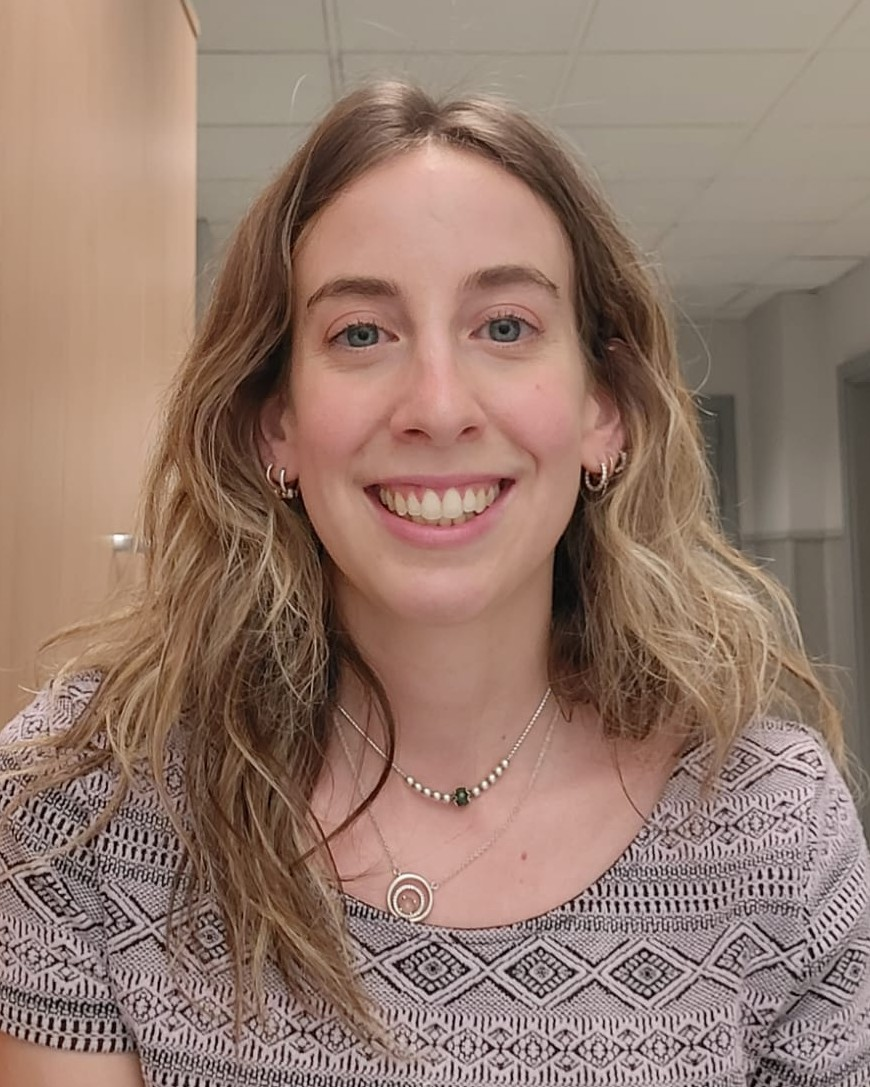
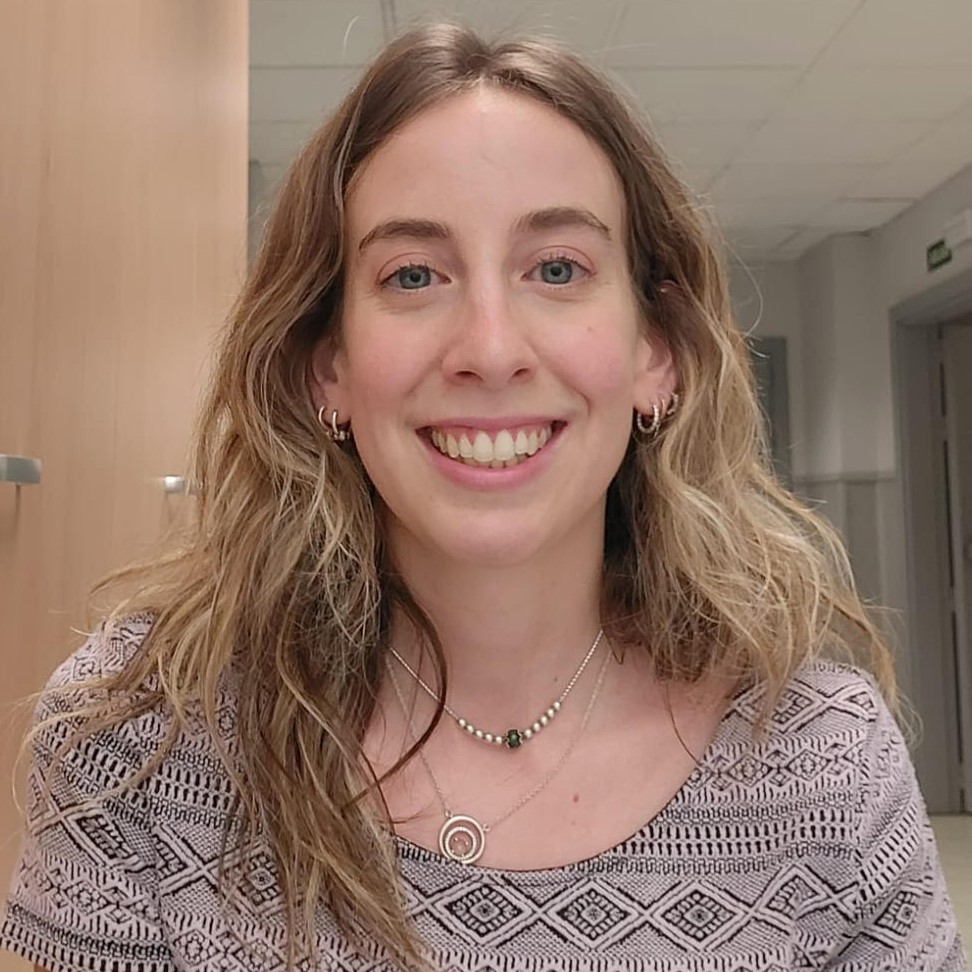
new photos

diff --git a/about/people/index.html b/about/people/index.html
@@ -313,7 +313,7 @@ author: URJCDataScience
 								<!-- team-member: start -->
 								<div class="team-member image-box style-2 mb-20 light-gray-bg text-center">
 									<div class="overlay-container overlay-visible">
-										<img src="{{ site.url }}/images/people/mjesusalgar.jpeg" alt="María Jesús Algar">
+										<img src="{{ site.url }}/images/people/mariajesusalgar.JPG" alt="María Jesús Algar">
 									</div>
 									<div class="body">
 										<p></p>
